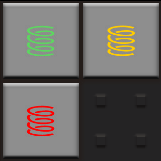
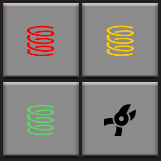
Implemented the wire cutter tool. Expanded README

diff --git a/README.md b/README.md
@@ -1,0 +1,34 @@
+## Let the wires (as items) go!
+
+Are you tired of red and green wires cluttering your inventory and having to bother to provide them even though they're basically free? You get them actually for free in blueprints, and they have only a symbolic cost otherwise. This mod removes the wires as craftable items and makes them available from shortcuts, similar to how blueprints etc. work now. The wire stack you get is ephemeral and exists only as long as you hold it on your cursor, as soon as you release it, it disappears. In addition to the shortcut buttons, the mod includes hotkeys to pick up red (Alt + F) and green (Alt + G) wires and to switch the current wire color (Ctrl + Tab).  
+
+#### Surrogate wire
+
+The red and green wires are removed from all recipes where they appear (none in vanilla, but  happens in mods, e.g. LTN). Optionally, very much NOT recommended, instead of removing them, the wires in recipes can be replaced with identical substitutes. The substitutes will reflect the changes to the recipes of the wires themselves, if any. But really, you should just let the wires go! 
+
+#### Copper wire
+
+The mod includes a shortcut and a hotkey (Alt + C) to pick up copper cable. If available, a stack of copper wire is taken from the inventory, otherwise it gives one (1) copper wire to prevent abuse. You can still trick the system and abuse it, but you'll have to work for it.
+
+## Wire cutter
+
+A new feature in the mod as of version 1.1.1 is the wire cutter tool to quickly remove all connections in an area. The wire cutter has a shortcut button and a hotkey (Alt + X). Please, remember, that you can disable unwanted shortcuts and remap hotkeys.
+
+The wire cutter is a selection tool, similar to e.g. the deconstruction planner. As other selection tools, it has primary and alternative selections. With default controls, the primary selection is done with the left mouse button, and the alternative with Shift + left mouse button. The color of the selection box indicates what type(s) of wire are to be cut. Red and green together are indicated as blue, because the logical color (yellow) indicates copper cable.  
+
+By default, the wire cutter operates in the simple universal mode (black-yellow icon). Its primary selection removes all red and green wire connections from all selected entities. The alternative selection removes all copper cable connections. The same as the wires in this mod, the wire cutter tool is ephemeral and exists only while held, you can't store it anywhere. 
+
+CAUTION. At this time the wire cutter tool has NO UNDO! Cut responsibly! 
+
+#### Multi-mode wire cutter
+
+If you want finer control than the universal mode described above, you can enable multi-mode operation for the wire cutter. It's a runtime setting, so no need to restart the game, and it's also a per player setting, so in multiplayer each player should be able to change it independently.  
+
+In multi-mode the wire cutter has four modes: universal (black-yellow icon), copper (yellow-black icon), red (red-green icon), and green (green-red icon): 
+
+* The universal mode works as described above. 
+* The copper mode is the reverse of the universal. The primary selection removes copper cable connection, the alternative - red and green wire connections. 
+* In the red mode the primary selection removes all red wire connections, and the alternative - all green wire connections. 
+* The green mode is the reverse of the red. 
+
+To avoid clutter, there is still only one wire cutter shortcut and hotkey, and they always set the wire cutter to the universal mode. The wire shortcuts and hotkeys are repurposed to switch the mode of the wire cutter while one is being held in the cursor. Each shortcut sets the wire cutter to the corresponding mode, i.e. the "give red wire" shortcut/hotkey switches the currently held wire cutter to the red mode, etc. If the wire cutter is in red or green mode, the "switch wire color" hotkey switches the color of the wire cutter. Remember, that all of this is only applicable if the multi-mode operation is selected, otherwise wire shortcuts have no effect on the wire cutter.   
